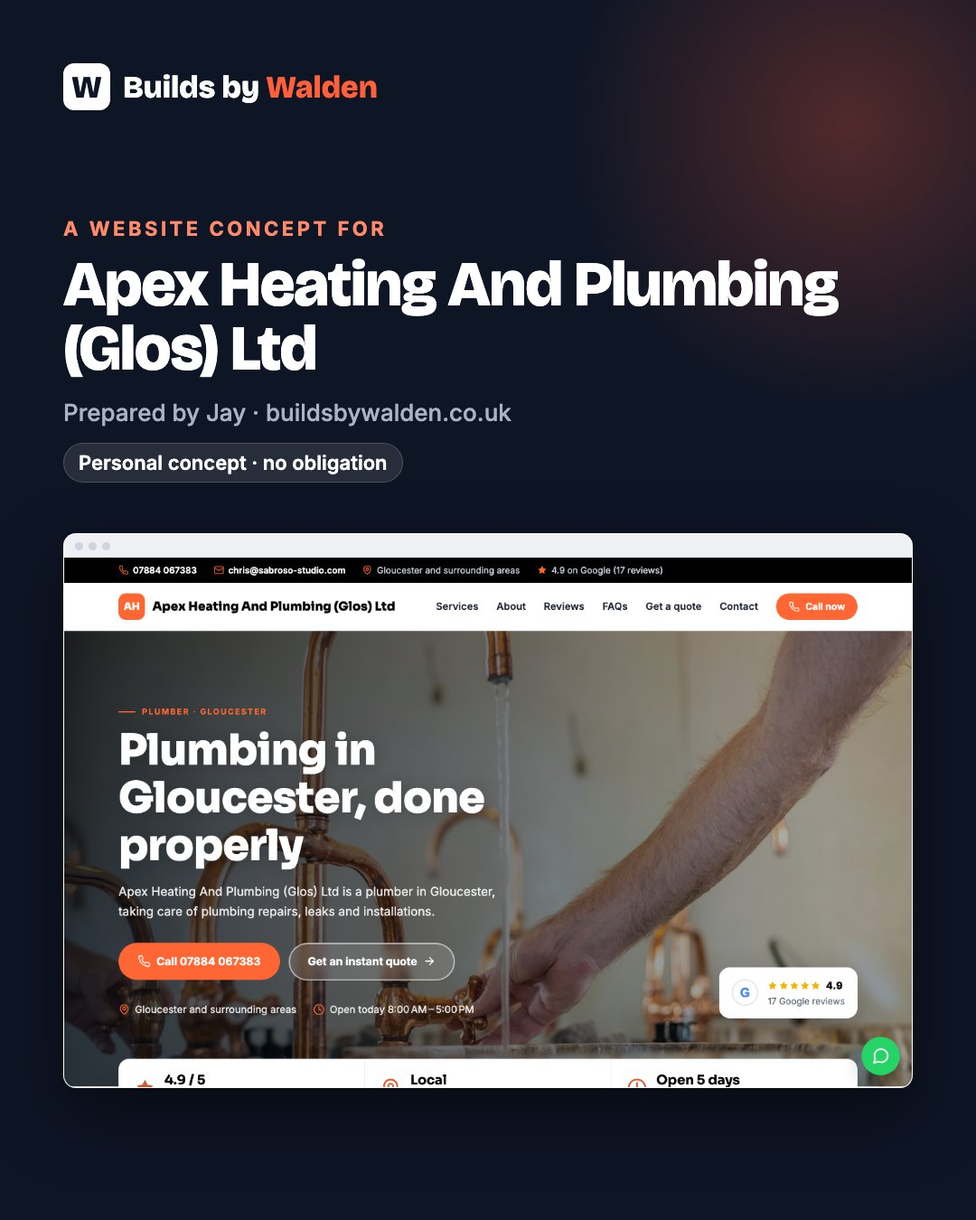
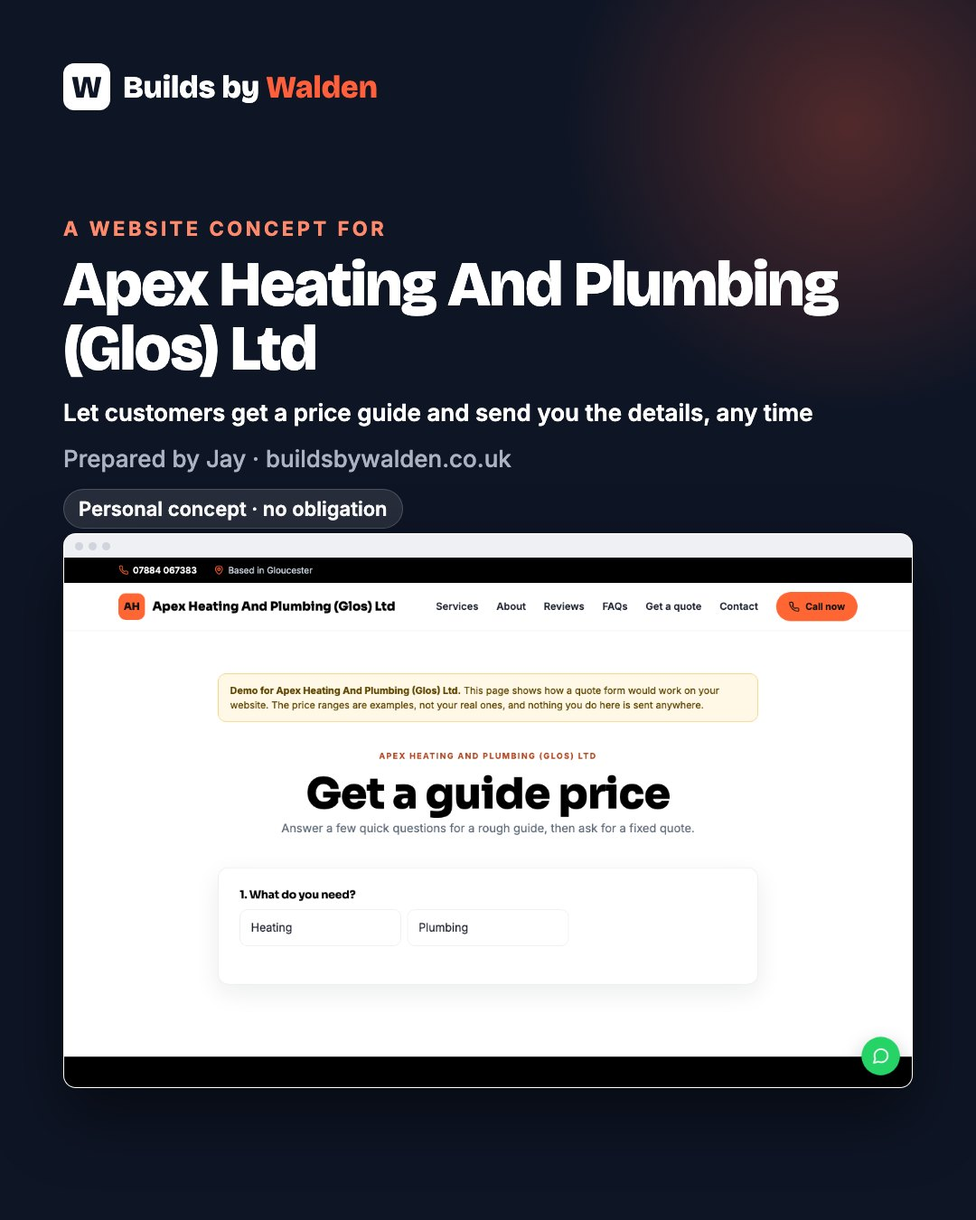
Presentation: Apex Heating And Plumbing (Glos) Ltd

diff --git a/for/apex-heating-and-plumbing-glos-ltd-8bf932/index.html b/for/apex-heating-and-plumbing-glos-ltd-8bf932/index.html
@@ -1,7 +1,7 @@
 <!doctype html>
 <html lang="en-GB"><head><meta charset="utf-8"><meta name="viewport" content="width=device-width, initial-scale=1">
 <meta name="robots" content="noindex,nofollow"><title>A website concept for Apex Heating And Plumbing (Glos) Ltd | Builds by Walden</title>
-<meta name="description" content="A private, no-obligation website concept, prepared by Jay at Builds by Walden."><meta property="og:type" content="website"><meta property="og:site_name" content="Builds by Walden"><meta property="og:title" content="A website concept for Apex Heating And Plumbing (Glos) Ltd"><meta property="og:description" content="A private, no-obligation website concept, prepared by Jay at Builds by Walden."><meta property="og:url" content="https://previews.buildsbywalden.co.uk/for/apex-heating-and-plumbing-glos-ltd-8bf932/"><meta property="og:image" content="https://previews.buildsbywalden.co.uk/for/apex-heating-and-plumbing-glos-ltd-8bf932/card.jpg"><meta property="og:image:width" content="1200"><meta property="og:image:height" content="630"><meta name="twitter:card" content="summary_large_image">
+<meta name="description" content="A no-obligation website concept, prepared independently by Jay at Builds by Walden."><meta property="og:type" content="website"><meta property="og:site_name" content="Builds by Walden"><meta property="og:title" content="A website concept for Apex Heating And Plumbing (Glos) Ltd"><meta property="og:description" content="A no-obligation website concept, prepared independently by Jay at Builds by Walden."><meta property="og:url" content="https://previews.buildsbywalden.co.uk/for/apex-heating-and-plumbing-glos-ltd-8bf932/"><meta property="og:image" content="https://previews.buildsbywalden.co.uk/for/apex-heating-and-plumbing-glos-ltd-8bf932/card.jpg"><meta property="og:image:width" content="1200"><meta property="og:image:height" content="630"><meta name="twitter:card" content="summary_large_image">
 <link rel="preconnect" href="https://fonts.googleapis.com"><link rel="preconnect" href="https://fonts.gstatic.com" crossorigin>
 <link href="https://fonts.googleapis.com/css2?family=Bricolage+Grotesque:opsz,wght@12..96,600;12..96,800&family=Inter:wght@400;500;600;700&display=swap" rel="stylesheet">
 <style>
@@ -14,8 +14,20 @@ h1{font-size:clamp(2.3rem,5.4vw,4rem);font-weight:800}h2{font-size:clamp(1.8rem,
 .wrap{max-width:1100px;margin:0 auto;padding:0 22px}.muted{color:var(--muted)}
 .eyebrow{display:inline-block;font-size:.76rem;font-weight:700;letter-spacing:.16em;text-transform:uppercase;color:var(--coral-d);margin-bottom:.9rem}
 .lead{font-size:1.15rem;color:var(--muted);max-width:660px}
+.actions.first{margin-bottom:1.6rem}.glance{list-style:none;display:grid;gap:.55rem;margin:0;max-width:620px}.glance li{display:grid;grid-template-columns:7.5rem 1fr;gap:.8rem;background:#fff;border:1px solid var(--line);border-radius:12px;padding:.6rem .9rem;font-size:.95rem}
+.glance b{color:var(--ink);font-size:.78rem;text-transform:uppercase;letter-spacing:.08em;padding-top:.15rem}
+@media (max-width:520px){.glance li{grid-template-columns:1fr;gap:.1rem}.hero .lead{font-size:1.02rem;margin:.9rem 0 1.2rem}h1{font-size:2.1rem}}
+.feat.wide{grid-column:1/-1}.feat ol{margin-left:1.3rem;color:var(--muted);font-size:.97rem}.feat ol li{margin:.35rem 0}
+.terms{margin-top:1.4rem;background:#fff;border:1px solid var(--line);border-radius:14px;padding:.9rem 1.1rem}.terms summary{font-weight:700;color:var(--ink);cursor:pointer}
+.terms dl{margin:.8rem 0 .4rem;display:grid;gap:.6rem}.terms dt{font-weight:700;color:var(--ink);font-size:.92rem}.terms dd{margin:0;color:var(--muted);font-size:.92rem}.terms p{font-size:.82rem}
+.enq{display:grid;grid-template-columns:1fr 1fr;gap:.8rem;max-width:640px;margin:0 auto 1.2rem;text-align:left}.enq label{display:grid;gap:.3rem;font-size:.85rem;font-weight:600;color:#fff}
+.enq input,.enq textarea{font:inherit;font-size:16px;padding:.7rem .8rem;border-radius:10px;border:1px solid rgba(255,255,255,.25);background:rgba(255,255,255,.08);color:#fff;width:100%}
+.enq .full{grid-column:1/-1}.enq .hp{position:absolute;left:-9999px}.enq-msg{min-height:1.4rem;margin:0 auto .8rem;max-width:640px}.enq-msg.bad{color:#ffb4a3}.enq-msg.good{color:#b9f6ca;font-weight:700}
+.small-print{font-size:.82rem;color:#aab2c3;max-width:640px;margin:0 auto 1.2rem}
+@media (max-width:640px){.enq{grid-template-columns:1fr}}
 .btn{display:inline-flex;align-items:center;gap:.5rem;padding:.95rem 1.4rem;border-radius:999px;font-weight:700;text-decoration:none;border:2px solid transparent;font-size:1rem;cursor:pointer;font-family:inherit;transition:transform .15s}
-.btn:hover{transform:translateY(-2px)}.btn.coral{background:var(--coral);color:#fff}.btn.line{border-color:var(--ink);color:var(--ink);background:transparent}.btn.white{background:#fff;color:var(--ink)}
+.btn:hover{transform:translateY(-2px)}
+a:focus-visible,button:focus-visible,input:focus-visible,textarea:focus-visible,summary:focus-visible{outline:3px solid #2563eb;outline-offset:2px;box-shadow:0 0 0 5px rgba(255,255,255,.85)}.btn.coral{background:var(--coral);color:#fff}.btn.line{border-color:var(--ink);color:var(--ink);background:transparent}.btn.white{background:#fff;color:var(--ink)}
 nav{position:sticky;top:0;z-index:20;background:rgba(251,248,243,.94);backdrop-filter:blur(10px);border-bottom:1px solid var(--line)}
 nav .wrap{display:flex;align-items:center;justify-content:space-between;height:66px;gap:1rem}
 .brand{display:flex;align-items:center;gap:.6rem;font-family:"Bricolage Grotesque",sans-serif;font-weight:800;color:var(--ink);text-decoration:none;white-space:nowrap}
@@ -55,6 +67,12 @@ section{padding:clamp(3.5rem,8vw,6rem) 0}section.alt{background:var(--sand)}
 .feat ul{margin-left:1.1rem;color:var(--muted);font-size:.95rem}.feat li{margin:.2rem 0}
 .demo-note{margin-top:1.2rem;font-size:.9rem;color:#5c4400;background:#fff8e6;border:1px solid #f3d27a;border-radius:10px;padding:.7rem 1rem}
 .compare{display:flex;gap:2rem;justify-content:center;flex-wrap:wrap;margin-top:2.5rem}
+.no-calc #worth,.no-calc .links a[href="#worth"],.l-short .finding .how,.l-short .finding .why,.l-short #about-me .who-links{display:none}
+.ba{margin-top:2.5rem;overflow-x:auto}.ba h3{margin:0 0 .8rem}.ba table{width:100%;border-collapse:collapse;font-size:.95rem}
+.ba th,.ba td{text-align:left;vertical-align:top;padding:.7rem .8rem;border-bottom:1px solid #e6e2dc}.ba thead th{font-size:.8rem;text-transform:uppercase;letter-spacing:.06em;color:#6b6560}
+.ba tbody th{font-weight:700;width:22%}.ba td:last-child{background:#f3fbf5}
+@media(max-width:640px){.ba table,.ba tbody,.ba tr,.ba th,.ba td{display:block;width:auto}.ba thead{display:none}.ba tr{border:1px solid #e6e2dc;border-radius:10px;margin-bottom:.8rem;overflow:hidden}
+.ba tbody th{width:auto;border-bottom:0;padding-bottom:0}.ba td::before{display:block;font-size:.75rem;font-weight:700;text-transform:uppercase;letter-spacing:.06em;color:#6b6560}.ba td:nth-of-type(1)::before{content:"Now"}.ba td:nth-of-type(2)::before{content:"With this"}}
 .compare figcaption{text-align:center;font-weight:700;color:var(--ink);margin-bottom:.6rem;font-family:"Bricolage Grotesque",sans-serif}
 .calc-wrap{max-width:760px}.calc-wrap .scenario input[type=range]{accent-color:var(--coral)}
 .offer{display:grid;grid-template-columns:1fr 1fr;gap:2rem;align-items:start}
@@ -84,14 +102,15 @@ footer{padding:2.5rem 0 3.5rem;font-size:.85rem;color:var(--muted)}footer p{max-
 .compare{gap:1rem}.compare .phone.small{width:150px;border-width:7px;border-radius:24px}}
 @media (prefers-reduced-motion:reduce){.reveal{opacity:1;transform:none;transition:none}}
 </style></head>
-<body>
+<body class="">
 <nav><div class="wrap"><a class="brand" href="#top"><i>W</i><span>Builds by <b>Walden</b></span></a>
 <div class="links"><a href="#found">What I found</a><a href="#made">What I made</a><a href="#worth">What it could mean</a><a href="#offer">What you'd get</a>
-<a class="btn coral" href="mailto:Jay@buildsbywalden.co.uk?subject=Yes%20please%3A%20Apex%20Heating%20And%20Plumbing%20%28Glos%29%20Ltd&body=Hi%20Jay%2C%0A%0AI%27ve%20seen%20the%20presentation%20for%20Apex%20Heating%20And%20Plumbing%20%28Glos%29%20Ltd%20and%20I%27d%20like%20to%20go%20ahead.%0A%0A">I'm interested</a></div></div></nav>
+<a class="btn coral" href="#enquire" data-track="cta">I'd like this</a></div></div></nav>
 
 <header class="hero" id="top"><div class="wrap hero-grid">
-<div class="reveal"><span class="eyebrow">Prepared for Apex Heating And Plumbing (Glos) Ltd</span><h1>A new website for Apex Heating And Plumbing (Glos) Ltd, ready to look at</h1><p class="lead">I&#x27;m Jay from Builds by Walden. I came across Apex Heating And Plumbing (Glos) Ltd on Google and noticed there&#x27;s no way to ask for a quote on your website and it could work a lot better, especially on a phone. Rather than just tell you, I&#x27;ve made a working version so you can see the difference. Have a look below.</p>
-<div class="actions"><a class="btn coral" href="#made">See what I made</a><a class="btn line" href="https://previews.buildsbywalden.co.uk/apex-heating-and-plumbing-glos-ltd-ec11a/index.html" target="_blank" rel="noopener">Open your new website</a></div></div>
+<div class="reveal"><span class="eyebrow">Prepared for Apex Heating And Plumbing (Glos) Ltd</span><h1>Let customers get a price guide and send you the details, any time</h1><p class="lead">I&#x27;m Jay from Builds by Walden. I looked at Apex Heating And Plumbing (Glos) Ltd in Gloucester online and couldn&#x27;t find a way to ask for a quote on your website, so I made something you can try for yourself. Your 4.9-star rating from 17 Google reviews shows customers like what you do. No obligation.</p>
+<div class="actions first"><a class="btn coral" href="https://previews.buildsbywalden.co.uk/apex-heating-and-plumbing-glos-ltd-ec11a/quote.html" target="_blank" rel="noopener" data-track="demo">Try the quote form</a><a class="btn line" href="#found">See what I found</a></div>
+<ul class="glance"><li><b>What I found</b><span>I couldn&#x27;t find a way to ask for a quote on your website, and more below.</span></li><li><b>What's ready</b><span>A new website and a quote form for your services.</span></li><li><b>Try it</b><span>Pick a job and answer a few questions to see a price guide, the way a customer would.</span></li></ul></div>
 <div class="reveal hero-phone"><div class="phone"><div class="screen"><iframe data-w="390" src="https://previews.buildsbywalden.co.uk/apex-heating-and-plumbing-glos-ltd-ec11a/index.html" title="Your new website on a phone" loading="lazy"></iframe></div></div></div>
 </div></header>
 
@@ -101,16 +120,16 @@ footer{padding:2.5rem 0 3.5rem;font-size:.85rem;color:var(--muted)}footer p{max-
 </div></section>
 
 <section id="made"><div class="wrap">
-<div class="reveal"><span class="eyebrow">After</span><h2>What I made for you</h2><p class="lead">A working version you can click through, here or on your own phone. Switch between the pages below.</p></div>
-<div class="tabs reveal"><button data-page="index.html" class="on">Your new website</button><button data-page="quote.html" class="">Get a quote</button></div>
-<div class="stage reveal"><div class="laptop"><div class="bar"><i></i><i></i><i></i><span id="addr">Apex Heating And Plumbing (Glos) Ltd</span></div><div class="view"><iframe data-w="1280" id="big" src="https://previews.buildsbywalden.co.uk/apex-heating-and-plumbing-glos-ltd-ec11a/index.html" title="Your new website"></iframe></div></div>
+<div class="reveal"><span class="eyebrow">After</span><h2>What I made for you</h2><p class="lead">A working version you can click through, here or on your own phone. Switch between the pages below, or <a href="https://previews.buildsbywalden.co.uk/apex-heating-and-plumbing-glos-ltd-ec11a/quote.html" target="_blank" rel="noopener" data-track="demo">open it full size</a>.</p></div>
+<div class="tabs reveal"><button type="button" data-page="index.html" class="on" aria-pressed="true">Your new website</button><button type="button" data-page="quote.html" class="" aria-pressed="false">Get a quote</button></div>
+<div class="stage reveal"><div class="laptop"><div class="bar"><i></i><i></i><i></i><span id="addr">Apex Heating And Plumbing (Glos) Ltd</span></div><div class="view"><iframe data-w="1280" id="big" data-src="https://previews.buildsbywalden.co.uk/apex-heating-and-plumbing-glos-ltd-ec11a/index.html" title="Your new website"></iframe></div></div>
 <div class="phone"><div class="screen"><iframe data-w="390" id="small" src="https://previews.buildsbywalden.co.uk/apex-heating-and-plumbing-glos-ltd-ec11a/index.html" title="Your new website on a phone"></iframe></div></div></div>
 <p class="demo-note">The demo pages use example prices, times and items so you can try them. Yours would go in when we set it up, and nothing you do in the demo is sent anywhere.</p>
-<div class="feats reveal"><div class="feat"><h4>Instant quote generator</h4><ul><li>Customers choose the job, its size and how soon</li><li>They see a price range straight away</li><li>Then send their details for a fixed quote</li></ul></div><div class="feat"><h4>Your new website</h4><ul><li>A fresh design in your branding</li><li>Built to work properly on phones</li><li>Your services, opening hours, map and Google reviews in one place</li><li>Tap-to-call and message buttons</li></ul></div></div>
+<div class="feats reveal"><div class="feat wide"><h4>Your new website</h4><ol><li>A fresh design in your branding</li><li>Clearer pages that are easy to find your way around</li><li>Built to work properly on phones</li><li>Your services, opening hours, map and Google reviews in one place</li><li>Tap-to-call and message buttons</li></ol></div><div class="feat"><h4>How the quote form works for Apex Heating And Plumbing (Glos) Ltd</h4><ul><li>Customers pick the job they need from your services.</li><li>They answer a few quick questions: how big is the job and how soon.</li><li>They see an example price range straight away (you&#x27;d set your own prices).</li><li>They send their name, number and postcode, and you get everything you need to give a fixed price.</li></ul></div></div><div class="ba"><h3>Before and after</h3><table><thead><tr><th scope="col"></th><th scope="col">Now</th><th scope="col">With this</th></tr></thead><tbody><tr><th scope="row">Instant quote generator</th><td>To find out what a job might cost, a customer has to call or message and wait.</td><td>They answer a few questions, see a guide price and send their details in one go.</td></tr></tbody></table></div>
 </div></section>
 
 <section id="worth" class="alt"><div class="wrap">
-<div class="reveal"><span class="eyebrow">What it could mean</span><h2>Try your own numbers</h2><p class="lead">See what a few extra customers could add up to.</p></div>
+<div class="reveal"><span class="eyebrow">What it could mean</span><h2>Try your own numbers</h2><p class="lead">An example to think with, using your own numbers: what a few extra jobs could add up to, what&#x27;s left after the monthly fee and the time it could save. It shows takings, not profit.</p></div>
 <div class="calc-wrap reveal" style="margin-top:1.6rem"><style>
 .scenario{border:1px solid rgba(16,24,40,.12);border-radius:14px;padding:1.1rem 1.2rem;background:#fff;color:#1d2330}
 .scenario .sc-head{display:flex;gap:.6rem;align-items:center;flex-wrap:wrap;margin-bottom:.3rem;font-size:1.05rem}
@@ -123,41 +142,62 @@ footer{padding:2.5rem 0 3.5rem;font-size:.85rem;color:var(--muted)}footer p{max-
 .scenario .sc-out{display:grid;grid-template-columns:1fr 1fr;gap:.7rem;margin-top:.6rem}
 .scenario .sc-out div{background:#f4f6fa;border-radius:10px;padding:.7rem .9rem}
 .scenario .sc-out span{display:block;font-size:.75rem;color:#5d6577;text-transform:uppercase;letter-spacing:.06em}
-.scenario .sc-out b{font-size:1.5rem}
+.scenario .sc-out b{font-size:1.5rem}.scenario .sc-out .wide{grid-column:1/-1}
 @media (max-width:640px){.scenario .sc-row{grid-template-columns:1fr auto;gap:.2rem .6rem}.scenario .sc-row input{grid-column:1/-1;grid-row:2}}
 </style><div id="calc"></div><script>
 window.renderScenario = function(el, d){
   if(typeof el === 'string') el = document.getElementById(el);
   if(!el) return;
   var h = function(x){return String(x==null?'':x).replace(/[&<>"']/g,function(c){return {'&':'&amp;','<':'&lt;','>':'&gt;','"':'&quot;',"'":'&#39;'}[c];});};
-  d = Object.assign({}, d, {name:h(d.name), what:h(d.what), one:h(d.one), per:d.per === 'month' ? 'month' : 'week'});
-  var s = {extra:d.extra, value:d.value};
-  var perMonth = d.per === 'week' ? 52/12 : 1;
-  function money(n){return '£'+Math.round(n).toLocaleString('en-GB');}
+  d = Object.assign({}, d, {name:h(d.name), what:h(d.what), one:h(d.one), costs:h(d.costs||'your own costs'), per:d.per === 'month' ? 'month' : 'week'});
+  var s = {extra:d.extra, value:d.value, calls:d.calls||0, visitors:(d.verified&&d.verified.visitors)||800, conv:(d.verified&&d.verified.conversion)||2, better:20, mode:d.verified?'visitors':'simple'};
+  var perMonth = d.per === 'week' ? 52/12 : 1, fee = +d.fee || 0;
+  function money(n){return (n<0?'−':'')+'£'+Math.abs(Math.round(n)).toLocaleString('en-GB');}
   el.className = (el.className||'') + ' scenario';
   el.innerHTML =
     '<div class="sc-head"><b>What could it be worth?</b> <span class="sc-tag">Example only</span></div>'+
-    '<p class="sc-note">Move the two sliders to numbers that feel right for '+d.name+'. The starting numbers are just examples.</p>'+
+    '<p class="sc-note">Move the sliders to numbers that feel right for '+d.name+'. The starting numbers are just examples, not your real figures.</p>'+
     '<label class="sc-row"><span>Extra '+d.what+' a '+d.per+'</span><input type="range" data-k="extra" min="0" max="'+(d.max_extra||20)+'" step="1" value="'+s.extra+'"><b data-v="extra"></b></label>'+
     '<label class="sc-row"><span>What one '+d.one+' is worth</span><input type="range" data-k="value" min="5" max="'+Math.max(200, d.value*3)+'" step="1" value="'+s.value+'"><b data-v="value"></b></label>'+
-    '<div class="sc-out"><div><span>A month</span><b data-o="month"></b></div><div><span>A year</span><b data-o="year"></b></div></div>'+
-    '<p class="sc-note small" data-o="sum"></p>';
+    (d.calls ? '<label class="sc-row"><span>Calls and messages about it a week</span><input type="range" data-k="calls" min="0" max="40" step="1" value="'+s.calls+'"><b data-v="calls"></b></label>' : '')+
+    '<details class="sc-adv"'+(d.verified?' open':'')+'><summary>Or work it out from website visitors</summary>'+
+      (d.verified ? '<p class="sc-note small"><b>Your figures</b> ('+h(d.verified.source||'your own records')+(d.verified.period?', '+h(d.verified.period):'')+'), not examples.</p>' : '<p class="sc-note small">Example figures: put in your own.</p>')+
+      '<label class="sc-row"><span>Visitors a month</span><input type="range" data-k="visitors" min="0" max="10000" step="50" value="'+(d.verified&&d.verified.visitors||800)+'"><b data-v="visitors"></b></label>'+
+      '<label class="sc-row"><span>How many become customers</span><input type="range" data-k="conv" min="0" max="10" step="0.5" value="'+(d.verified&&d.verified.conversion||2)+'"><b data-v="conv"></b></label>'+
+      '<label class="sc-row"><span>How much better it could do</span><input type="range" data-k="better" min="0" max="100" step="5" value="20"><b data-v="better"></b></label>'+
+      '<p class="sc-note small" data-o="vsum"></p></details>'+
+    '<div class="sc-out"><div><span>Extra takings a month</span><b data-o="month"></b></div><div><span>A year</span><b data-o="year"></b></div>'+
+    (fee ? '<div><span>Less the monthly fee</span><b data-o="fee"></b></div><div><span>Left a month</span><b data-o="left"></b></div>' : '')+
+    (d.calls ? '<div class="wide"><span>Time it could save</span><b data-o="hours"></b></div>' : '')+'</div>'+
+    '<p class="sc-note small" data-o="sum"></p>'+((d.setup||d.plan) ? '<p class="sc-note small" data-o="year1"></p>' : '');
   function upd(){
-    var month = s.extra * s.value * perMonth;
+    var fromV = s.visitors * s.conv / 100 * s.better / 100;      // extra customers a month, from visitors
+    var month = (s.mode === 'visitors' ? fromV * s.value : s.extra * s.value * perMonth), hrs = s.calls * (d.call_mins||0) * 52/12/60;
     el.querySelector('[data-v=extra]').textContent = s.extra;
+    el.querySelector('[data-v=visitors]').textContent = Math.round(s.visitors).toLocaleString('en-GB');
+    el.querySelector('[data-v=conv]').textContent = s.conv + '%';
+    el.querySelector('[data-v=better]').textContent = s.better + '%';
+    el.querySelector('[data-o=vsum]').textContent = Math.round(s.visitors).toLocaleString('en-GB') + ' visitors × ' + s.conv + '% × ' + s.better + '% better = about ' + (Math.round(fromV*10)/10) + ' extra ' + d.what + ' a month' + (s.mode === 'visitors' ? ' (used above).' : '. Move one of these to use it.');
     el.querySelector('[data-v=value]').textContent = money(s.value);
+    if(d.calls) el.querySelector('[data-v=calls]').textContent = s.calls;
     el.querySelector('[data-o=month]').textContent = money(month);
     el.querySelector('[data-o=year]').textContent = money(month*12);
-    el.querySelector('[data-o=sum]').textContent = s.extra + ' extra ' + (s.extra === 1 ? d.one : d.what) + ' a ' + d.per + ' × ' + money(s.value) + ' = about ' + money(month) + ' a month. Not a promise, just a way to think about it.';
+    if(fee){ el.querySelector('[data-o=fee]').textContent = money(fee); el.querySelector('[data-o=left]').textContent = money(month - fee); }
+    if(d.calls) el.querySelector('[data-o=hours]').textContent = 'about ' + (Math.round(hrs*10)/10) + ' hours a month';
+    if(d.setup||d.plan){ var y1 = month*12, opt1 = (d.setup||0) + fee*12, opt2 = (d.plan||0)*12;
+      el.querySelector('[data-o=year1]').textContent = 'First year: about ' + money(y1) + ' in extra takings, against ' + money(opt1) + ' paying upfront' + (d.plan ? ' or ' + money(opt2) + ' with nothing upfront' : '') + '.'; }
+    el.querySelector('[data-o=sum]').textContent = s.extra + ' extra ' + (s.extra === 1 ? d.one : d.what) + ' a ' + d.per + ' × ' + money(s.value) + ' = about ' + money(month) + ' a month in takings. That’s before ' + d.costs + ', so it isn’t profit.' +
+      (d.calls ? ' The time saved assumes about ' + d.call_mins + ' minutes for each call or message it handles for you.' : '') + ' Not a promise, just a way to think about it.';
   }
-  el.querySelectorAll('input[type=range]').forEach(function(r){r.addEventListener('input',function(){s[r.dataset.k]=parseFloat(r.value); upd();});});
+  el.querySelectorAll('input[type=range]').forEach(function(r){r.addEventListener('input',function(){s[r.dataset.k]=parseFloat(r.value);
+    if(['visitors','conv','better'].indexOf(r.dataset.k)>=0)s.mode='visitors';else if(r.dataset.k==='extra')s.mode='simple'; upd();});});
   upd();
 };
-</script><script>renderScenario("calc", {"service": "instant_quote", "category": "plumber", "name": "Apex Heating And Plumbing (Glos) Ltd", "what": "jobs", "one": "job", "per": "month", "extra": 2, "value": 180, "max_extra": 10});</script></div>
+</script><script>renderScenario("calc", {"service": "instant_quote", "category": "plumber", "name": "Apex Heating And Plumbing (Glos) Ltd", "what": "jobs", "one": "job", "per": "month", "extra": 2, "value": 180, "max_extra": 10, "fee": 20.0, "costs": "parts and your time", "calls": 5, "call_mins": 8, "setup": 425.0, "plan": 65.0});</script></div>
 </div></section>
 
 <section id="offer"><div class="wrap offer">
-<div class="reveal"><span class="eyebrow">What you'd get</span><h2>All set up for you</h2><ul class="included" style="margin-top:1.2rem"><li>Personalised to your branding, wording and photos</li><li>Built to work properly on phones</li><li>Set up on your own web address</li><li>Changes made easily, before and after it goes live</li><li>Instant quote generator</li></ul><p class="not-incl-h"><b>What happens next</b></p><ol class="next-steps"><li>Tap "I'm interested", or reply to my message.</li><li>We have a quick chat, and I send you a simple agreement to sign.</li><li>You send me your logo, photos and anything you'd like changed.</li><li>Your website goes live within 2 working days of me receiving everything.</li></ol></div>
+<div class="reveal"><span class="eyebrow">What you'd get</span><h2>All set up for you</h2><ul class="included" style="margin-top:1.2rem"><li>Personalised to your branding, wording and photos</li><li>Built to work properly on phones</li><li>Set up on your own web address</li><li>Changes made easily, before and after it goes live</li><li>Instant quote generator</li></ul><p class="not-incl-h"><b>What happens next</b></p><ol class="next-steps"><li>Send the form at the bottom of this page, or reply to my message.</li><li>We have a quick chat, and I send you a simple agreement to sign.</li><li>You send me your logo, photos and anything you'd like changed.</li><li>Your website goes live within 2 working days of me receiving everything.</li></ol><details class="terms"><summary>The small print, in plain English</summary><dl><dt>Paying upfront</dt><dd>The monthly plan has no minimum term: stop it any time with 30 days&#x27; notice by email. The set-up fee isn&#x27;t refundable once work has started.</dd><dt>Nothing upfront</dt><dd>A minimum of 12 months. After that it carries on month to month, and either of us can end it with 30 days&#x27; notice. To leave early, you either pay the months left up to month 12, or buy it outright for the upfront price less what you&#x27;ve already paid.</dd><dt>Every month</dt><dd>Your web address registered in your business&#x27;s name, hosting with the padlock (HTTPS), fixing anything that stops working, and small changes when you ask (up to 30 minutes a month, such as new hours, prices or photos).</dd><dt>Anything bigger</dt><dd>New pages or new tools are quoted before I start. Nothing extra is charged without you agreeing it first.</dd><dt>Who owns what</dt><dd>Your web address, photos, logo and wording are yours. The design becomes yours once the set-up fee is paid, or after 12 monthly payments on the nothing-upfront plan.</dd><dt>If it ends</dt><dd>You get a copy of your website&#x27;s files (once it&#x27;s paid for), I help move your web address for free, and the site comes offline at the end of the notice period unless it has moved.</dd><dt>Price changes</dt><dd>At most once a year, with 60 days&#x27; notice, and never in the first 12 months of the nothing-upfront plan.</dd><dt>Customer details</dt><dd>Enquiries and bookings that come in are yours. I only handle them to run it, and keep them secure.</dd><dt>No promises</dt><dd>I&#x27;ll build and run it with care, but nobody can promise more customers or a place in Google.</dd></dl><p class="muted">From the client agreement you'd sign before anything starts.</p></details></div>
 <div class="price reveal"><h3>Price</h3><p class="quote-ref">Quote BW-EC11A · version 1 · valid until 11 November 2026</p><div class="opt"><span class="opt-tag">Option 1</span><h4>Pay upfront</h4><table><tr><th>Your new website</th><td>£300</td></tr><tr><th>Instant quote generator</th><td>£125</td></tr><tr class="total"><th>Total to set up</th><td>£425</td></tr><tr><th>Then domain, hosting and support</th><td>£20 a month</td></tr><tr><th>First 12 months in total</th><td>£665</td></tr></table></div><div class="opt"><span class="opt-tag">Option 2</span><h4>Nothing to pay upfront</h4><p class="big">£65 <small>a month</small></p><p class="opt-note">Everything in option 1: the website, your web address, hosting and support. Minimum 12 months, £780 in total, so paying upfront saves you £115.</p></div><p>You'd get a proper invoice from Builds by Walden and pay securely through PayPal, by card or with a PayPal account.</p></div>
 </div></section>
 
@@ -165,30 +205,66 @@ window.renderScenario = function(el, d){
 <div class="who-mark"><i>W</i></div>
 <div><span class="eyebrow">Who made this</span><h2>Jay, Builds by Walden</h2>
 <p>I build websites for small businesses. I made this concept for Apex Heating And Plumbing (Glos) Ltd myself, from your public Google listing and website, to show you what I could do.</p>
-<ul class="who-points"><li>You didn't ask for it, and you're under no obligation.</li><li>Nothing has been published as your website: this is a private page, hidden from Google, that only people with the link can see.</li><li>If you'd like it, it gets finished with your own photos, wording and prices before anything goes live.</li></ul>
+<ul class="who-points"><li>I made it independently. You didn't ask for it, it isn't endorsed by Apex Heating And Plumbing (Glos) Ltd, and you're under no obligation.</li><li>Nothing has been published as your website. This page is unlisted: it's hidden from Google and isn't linked from anywhere, but anyone who has the link can open it.</li><li>If you'd like it, it gets finished with your own photos, wording and prices before anything goes live.</li></ul>
 <p class="who-links"><a href="https://buildsbywalden.co.uk" target="_blank" rel="noopener">buildsbywalden.co.uk</a> · <a href="mailto:Jay@buildsbywalden.co.uk">Jay@buildsbywalden.co.uk</a> · <a href="https://buildsbywalden.co.uk/privacy.html" target="_blank" rel="noopener">How I use business details</a></p></div>
 </div></div></section>
 
-<section><div class="wrap"><div class="next reveal"><h2>Like what you see?</h2>
-<p>Let me know and I'll go through it with you and make it properly yours: your photos, your wording, your prices. If not, no worries at all.</p>
-<div class="actions"><a class="btn coral" href="mailto:Jay@buildsbywalden.co.uk?subject=Yes%20please%3A%20Apex%20Heating%20And%20Plumbing%20%28Glos%29%20Ltd&body=Hi%20Jay%2C%0A%0AI%27ve%20seen%20the%20presentation%20for%20Apex%20Heating%20And%20Plumbing%20%28Glos%29%20Ltd%20and%20I%27d%20like%20to%20go%20ahead.%0A%0A">Yes, I'm interested</a><a class="btn line" href="mailto:Jay@buildsbywalden.co.uk?subject=Question%20about%20the%20presentation%20for%20Apex%20Heating%20And%20Plumbing%20%28Glos%29%20Ltd">Ask a question</a></div></div></div></section>
+<section id="enquire"><div class="wrap"><div class="next reveal"><h2>Like what you see?</h2>
+<p>Let me know and I'll go through it with you and make it properly yours: your details, your wording, your prices. If not, no worries at all.</p>
+<form class="enq" id="enq" novalidate><label>Your name<input name="name" autocomplete="name" maxlength="80" required></label><label>Business<input name="business" value="Apex Heating And Plumbing (Glos) Ltd" maxlength="80"></label>
+<label>Email<input name="email" type="email" autocomplete="email" maxlength="120" required></label><label>Phone <small>(optional)</small><input name="phone" type="tel" autocomplete="tel" maxlength="30"></label>
+<label class="full">Message<textarea name="message" rows="3" maxlength="1500">I&#x27;d like the quote form for Apex Heating And Plumbing (Glos) Ltd.</textarea></label><label class="hp" aria-hidden="true">Leave this empty<input name="website" tabindex="-1" autocomplete="off"></label></form>
+<p class="enq-msg" id="enq-msg" role="status"></p>
+<div class="actions"><button class="btn coral" type="submit" form="enq">I&#x27;d like this quote form</button><a class="btn line" href="mailto:Jay@buildsbywalden.co.uk?subject=Question%20about%20the%20presentation%20for%20Apex%20Heating%20And%20Plumbing%20%28Glos%29%20Ltd">Ask a question</a><a class="btn line" href="mailto:Jay@buildsbywalden.co.uk?subject=A%20quick%20call%20about%20Apex%20Heating%20And%20Plumbing%20%28Glos%29%20Ltd&amp;body=Hi%20Jay%2C%0A%0ACould%20we%20have%20a%20quick%20call%20about%20the%20new%20website%3F%20Good%20times%20for%20me%3A%0A%0A">Book a quick call</a></div>
+<p class="small-print">This goes straight to Jay, and your details are only used to reply to you. <a href="https://buildsbywalden.co.uk/privacy.html" target="_blank" rel="noopener" style="color:#fff">Privacy</a></p></div></div></section>
 
 <footer><div class="wrap">
-<p>Prepared for Apex Heating And Plumbing (Glos) Ltd by Jay at Builds by Walden, 12 October 2026. The findings come from public information (your Google listing and your website) checked on the dates shown. The demo uses example content where yours isn't known. The calculator uses example figures, not your real ones, and isn't a promise of results.</p>
+<p>Prepared independently for Apex Heating And Plumbing (Glos) Ltd by Jay at Builds by Walden, 12 October 2026. It wasn't commissioned or endorsed by Apex Heating And Plumbing (Glos) Ltd. The findings come from public information (your Google listing and your website) checked on the dates shown. The demo uses example content where yours isn't known. The calculator uses example figures, not your real ones, and isn't a promise of results.</p>
 <p>If you'd rather not hear from me again, just <a href="mailto:Jay@buildsbywalden.co.uk?subject=Please%20don't%20contact%20me">let me know</a> and I won't. <a href="https://buildsbywalden.co.uk/privacy.html" target="_blank" rel="noopener">Privacy</a></p>
 </div></footer>
 <script>
 (function(){
   var big=document.getElementById('big'),small=document.getElementById('small');
+  function wide(){return window.matchMedia('(min-width: 641px)').matches;}
+  function loadBig(){if(wide()&&big.getAttribute('data-src')&&!big.src){big.src=big.getAttribute('data-src');}}   // the laptop view isn't shown on phones: don't load it there
+  loadBig();window.addEventListener('resize',loadBig);
   function fit(){document.querySelectorAll('iframe[data-w]').forEach(function(f){var w=f.parentNode.clientWidth;if(w)f.style.transform='scale('+(w/+f.dataset.w)+')';});}
   fit();window.addEventListener('resize',fit);window.addEventListener('load',fit);
   document.querySelectorAll('.tabs button').forEach(function(b){b.onclick=function(){
-    document.querySelectorAll('.tabs button').forEach(function(x){x.classList.toggle('on',x===b);});
-    big.src='https://previews.buildsbywalden.co.uk/apex-heating-and-plumbing-glos-ltd-ec11a/'+b.dataset.page;small.src='https://previews.buildsbywalden.co.uk/apex-heating-and-plumbing-glos-ltd-ec11a/'+b.dataset.page;document.getElementById('addr').textContent=b.textContent;};});
+    document.querySelectorAll('.tabs button').forEach(function(x){x.classList.toggle('on',x===b);x.setAttribute('aria-pressed',x===b?'true':'false');});
+    if(wide())big.src='https://previews.buildsbywalden.co.uk/apex-heating-and-plumbing-glos-ltd-ec11a/'+b.dataset.page;else big.setAttribute('data-src','https://previews.buildsbywalden.co.uk/apex-heating-and-plumbing-glos-ltd-ec11a/'+b.dataset.page);small.src='https://previews.buildsbywalden.co.uk/apex-heating-and-plumbing-glos-ltd-ec11a/'+b.dataset.page;document.getElementById('addr').textContent=b.textContent;};});
   var rv=document.querySelectorAll('.reveal');
   if('IntersectionObserver' in window){var io=new IntersectionObserver(function(es){es.forEach(function(e){if(e.isIntersecting){e.target.classList.add('in');io.unobserve(e.target);}});},{threshold:.08});
   rv.forEach(function(el){io.observe(el);});setTimeout(function(){rv.forEach(function(el){el.classList.add('in');});},2000);}else{rv.forEach(function(el){el.classList.add('in');});}
   window.PRESENTATION='8bf932c04fc6946277a41a0a';
+  var EXPIRES="2027-01-10";      // after this date the page only says it has expired, with Jay's contact details
+  if(EXPIRES&&new Date().toISOString().slice(0,10)>EXPIRES){document.querySelector('main')&&(document.querySelector('main').style.display='none');
+    document.body.insertAdjacentHTML('afterbegin','<div style="max-width:560px;margin:15vh auto;padding:0 22px;font:18px/1.6 Inter,system-ui,sans-serif"><h1 style="font-size:1.6rem">This page has expired</h1><p>It was a concept prepared by Jay at Builds by Walden. If you’d like to see it again, email <a href="mailto:Jay@buildsbywalden.co.uk">Jay@buildsbywalden.co.uk</a>.</p></div>');
+    [].forEach.call(document.querySelectorAll('nav,header,section,footer'),function(x){x.style.display='none';});}
+  // counts (no visitor details) and the enquiry form go to Jay's Google web app when it's set up; otherwise the form opens an email
+  var API="",TOKEN='8bf932c04fc6946277a41a0a',me=false;
+  try{if(/[?&]me=1/.test(location.search))localStorage.setItem('bw-me','1');me=!!localStorage.getItem('bw-me');}catch(e){}
+  var done={};    // once per kind per page load; nothing is stored on the visitor's device
+  function seen(kind){if(!API||me||done[kind])return;done[kind]=1;
+    try{fetch(API,{method:'POST',mode:'no-cors',keepalive:true,headers:{'Content-Type':'text/plain;charset=utf-8'},body:JSON.stringify({action:'p_seen',token:TOKEN,kind:kind})});}catch(e){}}
+  seen('visit');
+  document.querySelectorAll('[data-track]').forEach(function(a){a.addEventListener('click',function(){seen(a.dataset.track);});});
+  document.querySelectorAll('.tabs button').forEach(function(b,i){if(i)b.addEventListener('click',function(){seen('demo');});});
+  var f=document.getElementById('enq'),msg=document.getElementById('enq-msg'),busy=false;
+  function say(t,good,field){msg.textContent=t;msg.className='enq-msg '+(good?'good':'bad');
+    ['name','email'].forEach(function(n){var el=f.elements[n];if(el){el.setAttribute('aria-invalid',n===field?'true':'false');if(n===field){el.setAttribute('aria-describedby','enq-msg');el.focus();}}});}
+  if(f)f.addEventListener('submit',function(e){e.preventDefault();if(busy)return;
+    var v=function(n){return (f.elements[n].value||'').trim();};
+    if(v('name').length<2)return say('Please add your name.',false,'name');
+    if(!/^[^@\s]+@[^@\s]+\.[a-z]{2,}$/i.test(v('email')))return say('Please check your email address.',false,'email');
+    seen('cta');
+    var d={action:'p_enquiry',token:TOKEN,name:v('name'),business:v('business'),email:v('email'),phone:v('phone'),message:v('message'),website:v('website'),service:"instant_quote",ref:"BW-EC11A",focus:"instant_quote,website_redesign",page:(document.querySelector('.tabs button.on')||{}).textContent||''};
+    function byEmail(){location.href='mailto:Jay@buildsbywalden.co.uk?subject='+encodeURIComponent("I'd like this quote form"+': '+(d.business||d.name))+'&body='+encodeURIComponent(d.message+'\n\n'+d.name+'\n'+d.email+(d.phone?'\n'+d.phone:''));}
+    if(!API)return byEmail();
+    busy=true;say('Sending…',true);
+    fetch(API,{method:'POST',headers:{'Content-Type':'text/plain;charset=utf-8'},body:JSON.stringify(d)}).then(function(r){return r.json();}).then(function(r){busy=false;
+      if(r.ok){f.reset();say('Thanks '+d.name.split(' ')[0]+', that’s with Jay. He’ll reply by email, usually the same day.',true);}else say(r.error||'That didn’t send. Please try again.');})
+      .catch(function(){busy=false;say('That didn’t send. Opening an email instead.');setTimeout(byEmail,800);});});
 })();
 </script>
 </body></html>
